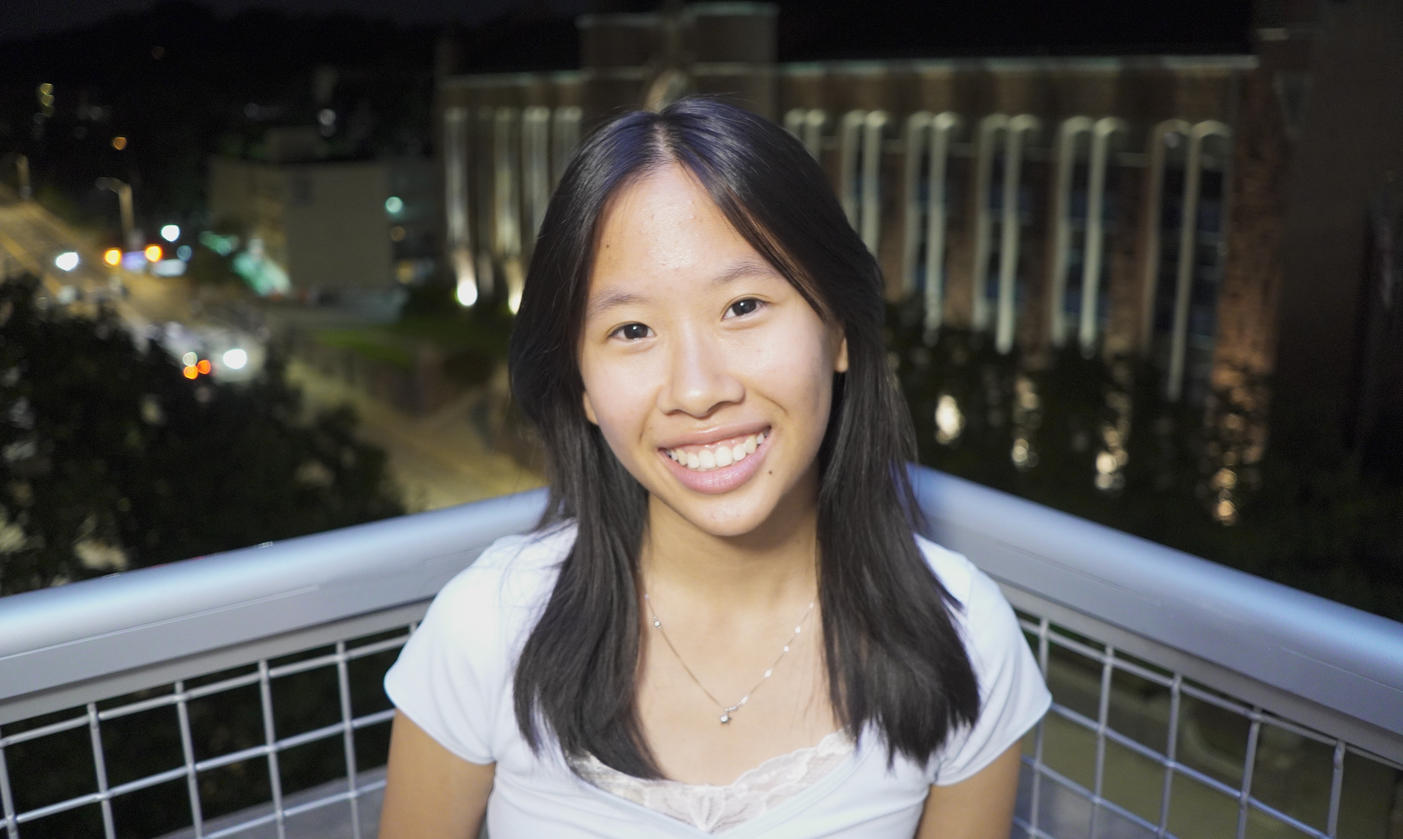
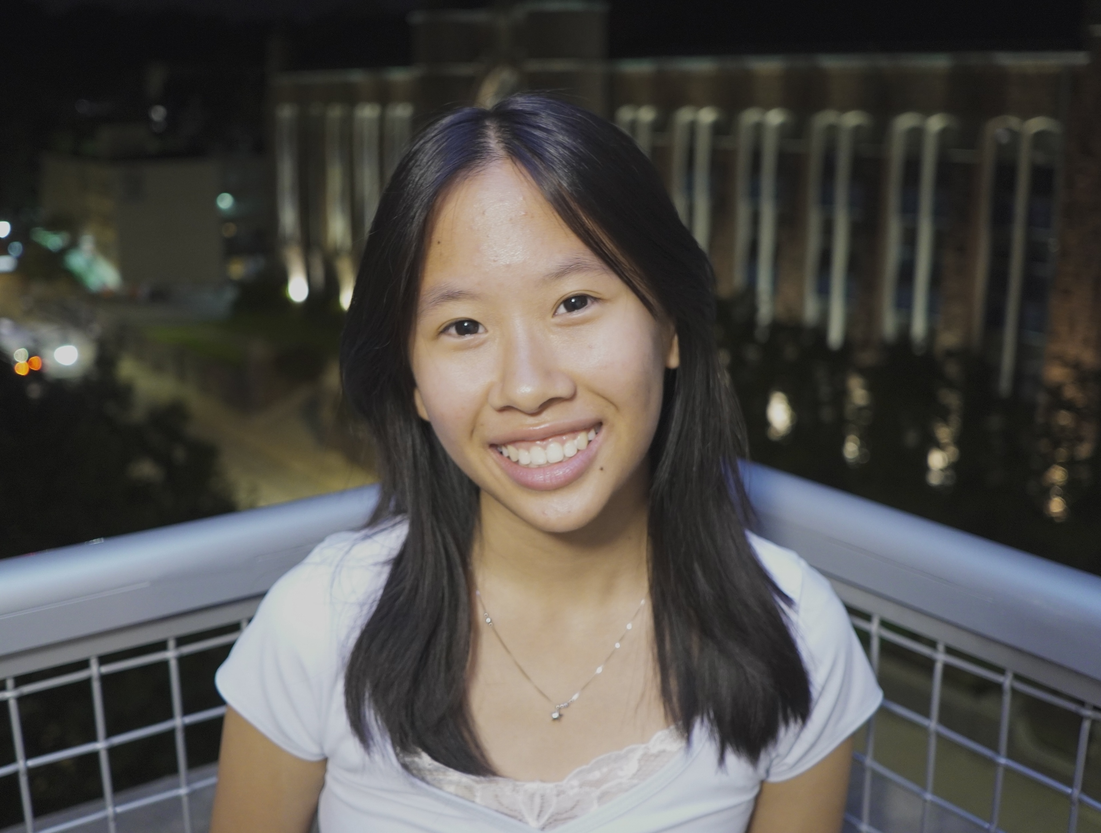
added sidequest

diff --git a/index.html b/index.html
@@ -99,7 +99,7 @@
                 <div class="carousel-viewport">
                     <div class="carousel-track" id="projectTrack">
                         
-                        <div class="project-card" data-modal-tags="design" data-modal-title="CRAVINGCHEF" data-modal-dates="Jul 2026 - Present" data-modal-link="https://apps.apple.com/us/app/cravingchef/id6743567433" data-modal-link-text="apps.apple.com/cravingchef" data-modal-type="Project type: personal ai chef app (available to download on app store)" data-modal-role="Role: product and ui/ux designer" 
+                        <div class="project-card" data-modal-tags="design" data-modal-title="CRAVINGCHEF" data-modal-dates="Jul 2026 - Aug 2026" data-modal-link="https://apps.apple.com/us/app/cravingchef/id6743567433" data-modal-link-text="apps.apple.com/cravingchef" data-modal-type="Project type: personal ai chef app (available to download on app store)" data-modal-role="Role: product and ui/ux designer" 
                         data-modal-accolade="Description: CravingChef learns your tastes, preferences, and goals to deliver personalized recipe recommendations, meal plans, nutrition insights, and grocery lists tailored to you" data-modal-note-1="collected and assessed user feedback; made targeted choices in redesigning app's main feed to remedy dissatisfactory ux and increase engagement:" data-modal-note-1-link-href="https://www.figma.com/design/JdDIwOyKadeHnNwH5g2cp3/CravingChef-Redesign---Wireframe?node-id=0-1&t=pEgO6KDdJmrUnE81-1" data-modal-note-1-link-text="link to figma wireframe" data-modal-note-2="designed the implementation of new features such as locating nearby restaurants with the user's desired dish, search and user uploads page, user reviews, feature to see other versions of a dish, etc.">
                             <div class="project-img-placeholder">
                                 <img src="project photos/01-hero.png" alt="CravingChef">
@@ -124,6 +124,14 @@
                                 <img src="project photos/lab3 cover.png" alt="V1 Neural Decoding">
                             </div>
                             <div class="project-title">Population Neural Decoding, Computational Neuroscience Lab, 2026</div>
+                        </div>
+
+                        <div class="project-card" data-modal-tags="design, writing" data-modal-title="SideQuest" data-modal-dates="Sep 2026" data-modal-link="https://sidequest-demo.onrender.com" data-modal-link-text="sidequest.com" data-modal-type="Project type: hackcmu project; mobile app connecting friends through modern adult isolation; features challenging and kalshi-style betting" data-modal-role="Role: product and ui/ux designer" 
+                        data-modal-accolade="Description: Place wagers on completing 'quests' (created by you) and 'challenges' (from friends and the sidequest system) as real life becomes your open-world rpg" data-modal-note-1="designed product features and structural flow to induce easy usage. scripted, filmed, and edited demo video:" data-modal-note-1-link-href="https://files.aayanmaheshwari.com/public/share/WyfP5e2gZw6YUD0zw5lQXw" data-modal-note-1-link-text="link to brief demo video" data-modal-note-2="specifically focused on the 'quest' and 'bet' screens, tailoring design towards user-user interactions on these features">
+                            <div class="project-img-placeholder">
+                                <img src="project photos/sidequest cover.png" alt="SideQuest">
+                            </div>
+                            <div class="project-title">SideQuest, Product and UI/UX Designer, 2026</div>
                         </div>
 
                         <div class="project-card" data-modal-tags="ml/datascience" data-modal-title="NBA OUTCOME PREDICTION AND OPTIMIZATION MODEL" data-modal-dates="Apr 2026" data-modal-link="https://alypy.substack.com/p/optimizing-nba-moneyline-wins?r=8v45h9&utm_campaign=post&utm_medium=web&showWelcomeOnShare=true" data-modal-link-text="project article on substack" data-modal-type="Project type: machine learning and probabilistic modeling in R" 

diff --git a/about.html b/about.html
@@ -62,16 +62,19 @@
 
                 <div class="about-student">
                     <p>
-                        In Progress:
+                        Current:
                         <ul>
-                            <li>The Labratory for Computational Perception</li>
+                            <li>Research Assistant :: The Labratory for Computational Perception</li>
+                            <li>Designer :: CMU Scottylabs</li>
+                            <li>Attorney :: CMU Mock Trial</li>
+                            <li>Events Organizer :: Game Creation Society</li>
                             <li>Imperative Computation</li>
                             <li>Designing Human-Centered Software</li>
                         </ul>
                         <br>
                         Completed:
                         <ul>
-                            <li>Game Creation Society</li>
+                            <li>Project Lead :: Game Creation Society</li>
                             <li>Computational Neuroscience</li>
                             <li>Fundamentals of Programming</li>
                             <li>Concepts of Mathematics</li>
